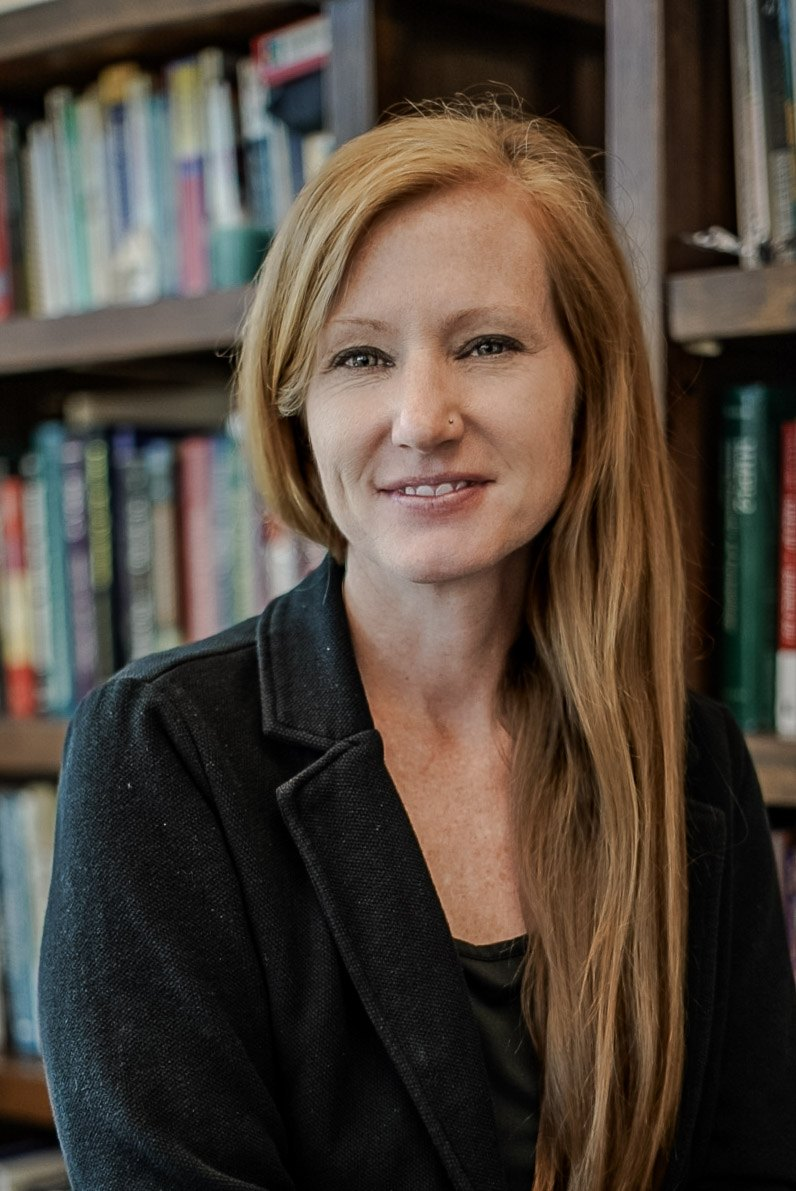
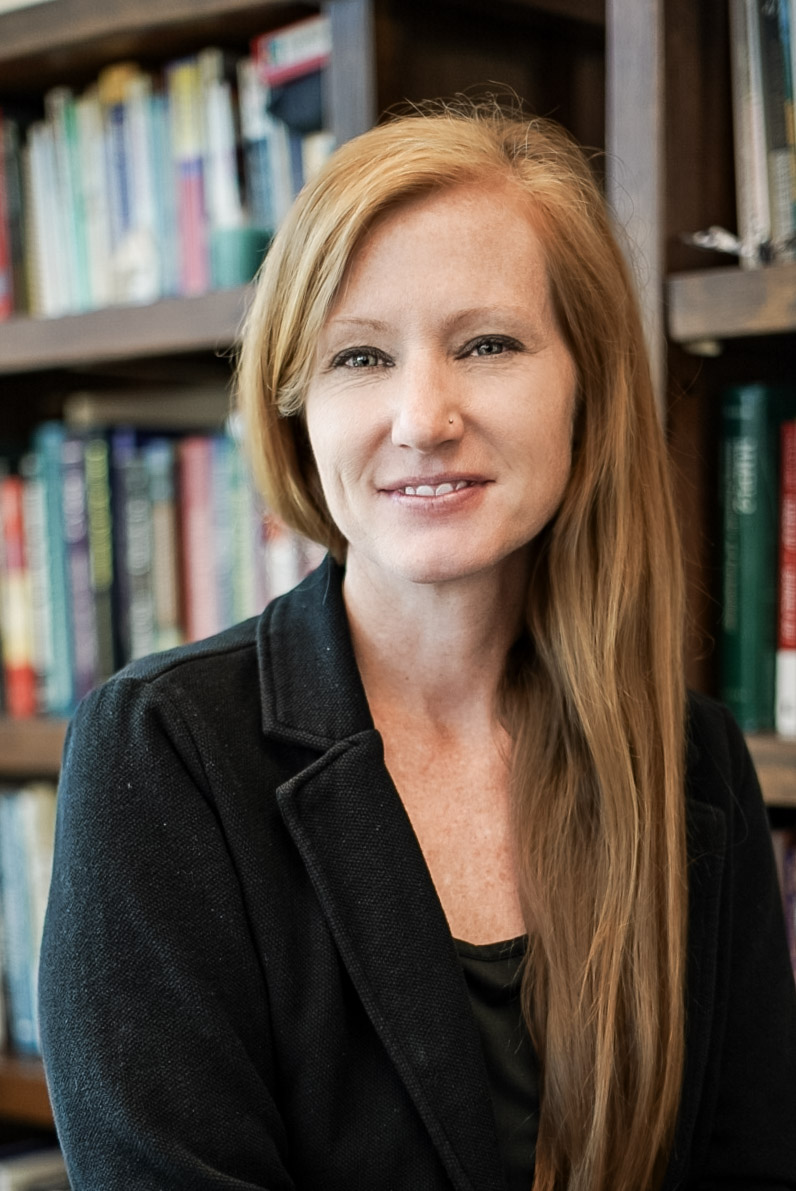
Add files via upload

diff --git a/index.html b/index.html
@@ -3,6 +3,9 @@
 <head>
 <meta charset="UTF-8" />
 <meta name="viewport" content="width=device-width, initial-scale=1" />
+
+<!-- Tab icon (RB monogram, sage) -->
[1 lines of base64/hex data omitted]
 <title>Raurie Birch, Psy.D. — Psychological Services | Missoula, Montana</title>
 <meta name="description" content="Warm, collaborative therapy for adolescents and adults in Missoula, Montana. In-person and telehealth, in-network with major insurance, and available in 40+ states through PsyPACT. Accepting new clients." />
 
@@ -110,7 +113,7 @@
   .eyebrow { font-size: 12px; letter-spacing: 0.16em; text-transform: uppercase; color: var(--eyebrow); margin-bottom: 20px; }
   .hero h1 { font-size: clamp(36px, 5vw, 54px); margin-bottom: 24px; }
   .hero .lede { font-size: 18px; max-width: 440px; margin-bottom: 34px; color: var(--ink-soft); }
-  .hero-actions { display: flex; gap: 12px; flex-wrap: wrap; }
+  .hero-actions { display: flex; gap: 12px; flex-wrap: wrap; justify-content: center; }
 
   /* headshot frame */
   .photo-frame {
@@ -392,7 +395,7 @@
       <div class="ins-copy">
         <h2 class="section-title reveal">Insurance &amp; Fees</h2>
         <p class="reveal" style="--d:.10s">I&rsquo;m in-network with many major insurance plans. When you use your in-network benefits, you typically pay only your copay, coinsurance, or any remaining deductible &mdash; not my full session fee.</p>
-        <p class="reveal" style="--d:.18s">Before we begin, I&rsquo;ll help verify your specific benefits so you have a clear picture of any out-of-pocket cost, with no surprises along the way.</p>
+        <p class="reveal" style="--d:.18s">Coverage varies from plan to plan, so it&rsquo;s worth checking your specific benefits with your insurer to understand any out-of-pocket cost. You&rsquo;re always welcome to reach out with questions before getting started.</p>
         <div class="psypact reveal" style="--d:.22s">
           <svg viewBox="0 0 24 24" fill="none" stroke="currentColor" stroke-width="1.6"><circle cx="12" cy="12" r="9"/><path d="M3 12h18M12 3c2.5 2.5 2.5 15 0 18M12 3c-2.5 2.5-2.5 15 0 18"/></svg>
           <p>I&rsquo;m licensed in Montana and New York, and through PsyPACT I offer telehealth to clients in 40+ participating states. <a href="https://psypact.gov/page/psypactmap" target="_blank" rel="noopener">See if your state is included &rarr;</a></p>
@@ -442,12 +445,12 @@
 
       <div class="faq-item reveal" style="--d:.16s">
         <button class="faq-q" aria-expanded="false" aria-controls="fa4"><span>Do you offer online therapy?</span><span class="faq-icon" aria-hidden="true"></span></button>
-        <div class="faq-a" id="fa4" role="region"><div class="faq-a-inner"><div class="faq-a-text">Yes. I see clients both in person in Missoula and online via secure telehealth. Through PsyPACT, I can also work with clients located in 40+ participating states.</div></div></div>
+        <div class="faq-a" id="fa4" role="region"><div class="faq-a-inner"><div class="faq-a-text">Yes. I see clients both in person in Missoula and online through secure telehealth. Working across state lines is possible through PsyPACT &mdash; an interstate compact that authorizes qualified psychologists to provide telehealth to clients in participating states. I&rsquo;m licensed in Montana and New York, and through PsyPACT I can also work with clients located in any of the 40+ participating states. That list keeps growing, so the simplest way to check is the official PsyPACT map: <a href="https://psypact.gov/page/psypactmap" target="_blank" rel="noopener">see if your state is included &rarr;</a></div></div></div>
       </div>
 
       <div class="faq-item reveal" style="--d:.20s">
         <button class="faq-q" aria-expanded="false" aria-controls="fa5"><span>Do you take insurance?</span><span class="faq-icon" aria-hidden="true"></span></button>
-        <div class="faq-a" id="fa5" role="region"><div class="faq-a-inner"><div class="faq-a-text">Yes &mdash; I&rsquo;m in-network with many major plans, including BlueCross BlueShield, Cigna &amp; Evernorth, Optum, UnitedHealthcare, PacificSource, and others. With in-network benefits, most clients pay only their copay, coinsurance, or remaining deductible. I&rsquo;ll help verify your benefits before we start.</div></div></div>
+        <div class="faq-a" id="fa5" role="region"><div class="faq-a-inner"><div class="faq-a-text">Yes &mdash; I&rsquo;m in-network with many major plans, including BlueCross BlueShield, Cigna &amp; Evernorth, Optum, UnitedHealthcare, PacificSource, and others. With in-network benefits, most clients pay only their copay, coinsurance, or remaining deductible. Coverage varies by plan, so it&rsquo;s worth confirming your specific benefits with your insurer.</div></div></div>
       </div>
 
       <div class="faq-item reveal" style="--d:.24s">

diff --git a/good-faith-estimate.html b/good-faith-estimate.html
@@ -7,6 +7,9 @@
 <head>
 <meta charset="UTF-8" />
 <meta name="viewport" content="width=device-width, initial-scale=1" />
+
+<!-- Tab icon (RB monogram, sage) -->
[1 lines of base64/hex data omitted]
 <title>Good Faith Estimate — Raurie Birch, Psy.D.</title>
 <meta name="description" content="Your right to a Good Faith Estimate under the No Surprises Act." />
 <meta name="robots" content="noindex" />

diff --git a/privacy.html b/privacy.html
@@ -6,6 +6,9 @@
 <head>
 <meta charset="UTF-8" />
 <meta name="viewport" content="width=device-width, initial-scale=1" />
+
+<!-- Tab icon (RB monogram, sage) -->
[1 lines of base64/hex data omitted]
 <title>Privacy Policy — Raurie Birch, Psy.D.</title>
 <meta name="description" content="Privacy policy for drrauriebirch.com." />
 <meta name="robots" content="noindex" />